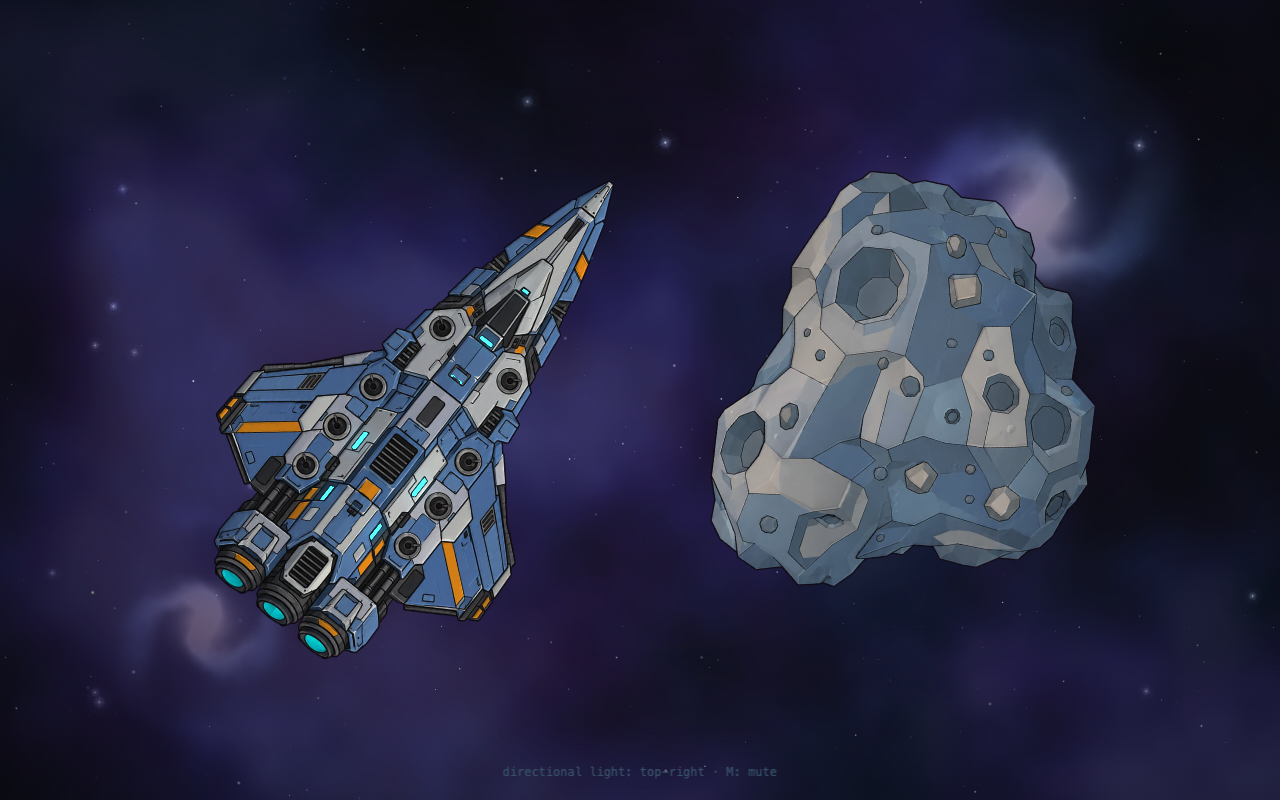
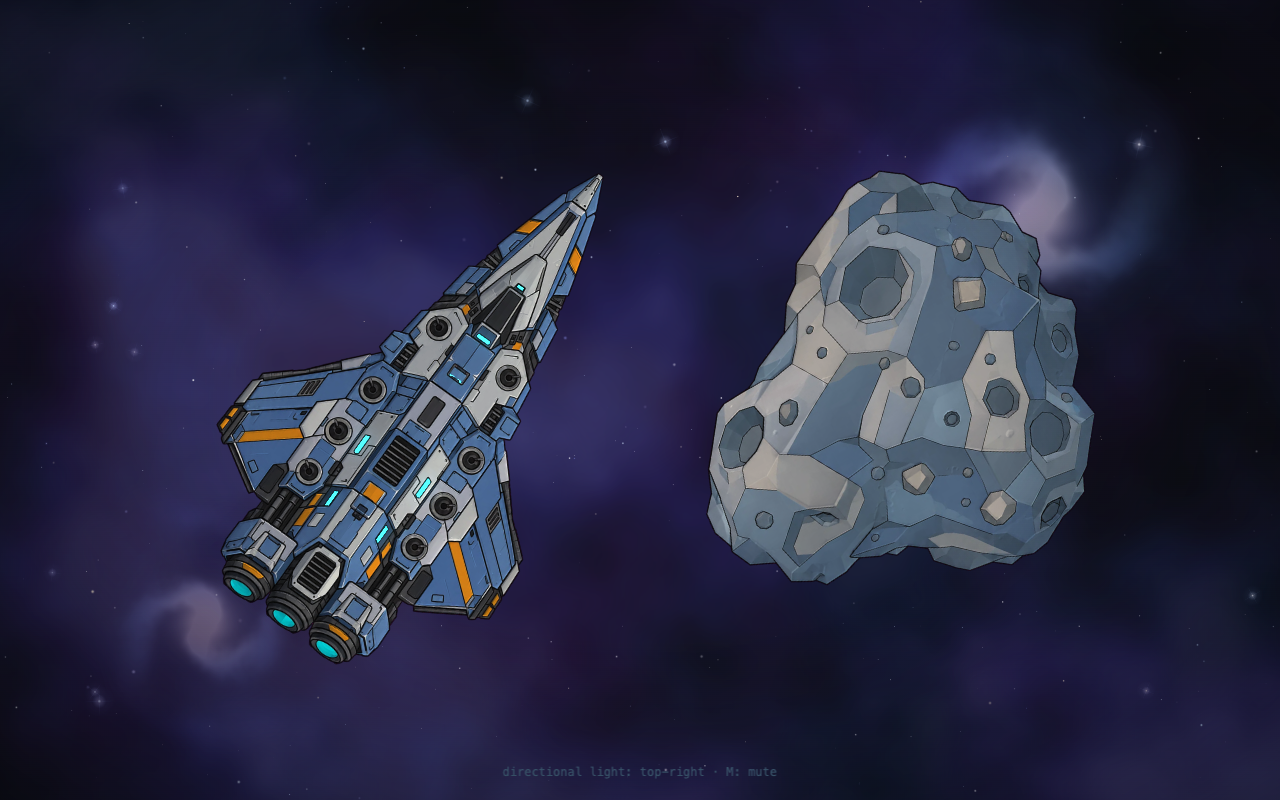
fix: cap zoom-in at the default 1x

Changed region(s): [[0.1562, 0.2188, 0.5, 0.8438], [0.5312, 0.2188, 0.875, 0.75], [0.6875, 0.4375, 0.7188, 0.4688]]

diff --git a/src/app/background.ts b/src/app/background.ts
@@ -49,9 +49,9 @@ export interface Background {
 const MAX_DELTA_SECONDS = 0.05;
 const HERO_STAR_COUNT = 14;
 
-/** Hard camera limits: 50× zoom-out (0.02) up to 6× zoom-in. */
+/** Hard camera limits: 50× zoom-out (0.02); 1× default is the max zoom-in. */
 const MIN_ZOOM = 0.02;
-const MAX_ZOOM = 6;
+const MAX_ZOOM = 1;
 
 const NEBULA_LAYERS = [
   { parallax: 0.03, alpha: 0.32, tileScaleFactor: 1.9 },

diff --git a/README.md b/README.md
@@ -78,8 +78,8 @@ docs/                     Architecture decisions, reference art and agent workfl
 - The ship and asteroid slowly counter-rotate so you can judge the top-right directional key
   light across their normal-mapped faces.
 - Ship and asteroid ride the **near dust layer**: drag/zoom moves them with it.
-- **Drag the canvas** to pan the background; **scroll / pinch** to zoom it (`0.02×–6×`,
-  50× max zoom-out). **Double-click** resets the view.
+- **Drag the canvas** to pan the background; **scroll / pinch** to zoom out from the default
+  1× (`0.02×–1×`, 50× max zoom-out). **Double-click** resets the view.
 - **Click** for the placeholder sound; **M** mutes/unmutes.
 - `Background.setZoom()` is exposed for velocity-driven background zoom.
 

diff --git a/AGENTS.md b/AGENTS.md
@@ -98,7 +98,8 @@ behaviour, also run `pnpm browser:inspect` and check the screenshot.
   into `CanvasSource`s and composed with batched sprites/TilingSprites. Avoid per-frame
   full-screen shaders or filters unless profiling justifies them.
 - **Zoom is depth-weighted.** Far stars/nebulas stay at a fixed scale; mid/near stars respond
-  partially; near dust takes the full pan + zoom. Zoom is clamped to `0.02`–`6` and exposed as
+  partially; near dust takes the full pan + zoom. Zoom is clamped to `0.02`–`1` (1× is the
+  default and maximum zoom-in) and exposed as
   `Background.setZoom()` for velocity-driven camera work.
 
 ## Agent workflow

diff --git a/docs/DECISIONS.md b/docs/DECISIONS.md
@@ -94,7 +94,8 @@ velocity (zoom out at higher speeds). Zoom is depth-weighted rather than uniform
 - mid/near star layers respond partially (`zoomResponse` in `starfield-model`),
 - near-field dust takes the full pan and zoom.
 
-Zoom is clamped to **0.02×–6×**; the 0.02 floor is the requested 50× zoom-out limit. The
+Zoom is clamped to **0.02×–1×**; 1× is both the default and the maximum zoom-in, and the
+0.02 floor is the requested 50× zoom-out limit. The
 background exposes `setZoom(zoom)` (smoothed target) and `resetView()` so gameplay can ease the
 camera out from velocity without coupling the game loop to rendering.
 
